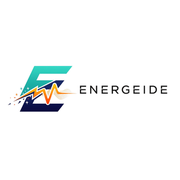
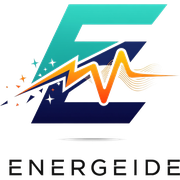
auto-commit for 6329f77a-e319-442f-a806-9cf65383b7c2

diff --git a/frontend/public/index.html b/frontend/public/index.html
@@ -19,10 +19,10 @@
         <link rel="canonical" href="https://energeide.it/" />
 
         <!-- Favicons -->
-        <link rel="icon" href="%PUBLIC_URL%/favicon.ico" sizes="any" />
-        <link rel="icon" type="image/png" sizes="192x192" href="%PUBLIC_URL%/logo192.png" />
-        <link rel="icon" type="image/png" sizes="512x512" href="%PUBLIC_URL%/logo512.png" />
-        <link rel="apple-touch-icon" sizes="180x180" href="%PUBLIC_URL%/apple-touch-icon.png" />
+        <link rel="icon" href="%PUBLIC_URL%/favicon.ico?v=2" sizes="any" />
+        <link rel="icon" type="image/png" sizes="192x192" href="%PUBLIC_URL%/logo192.png?v=2" />
+        <link rel="icon" type="image/png" sizes="512x512" href="%PUBLIC_URL%/logo512.png?v=2" />
+        <link rel="apple-touch-icon" sizes="180x180" href="%PUBLIC_URL%/apple-touch-icon.png?v=2" />
         <link rel="manifest" href="%PUBLIC_URL%/manifest.json" />
 
         <!-- Open Graph / Facebook -->

diff --git a/frontend/src/components/Footer.jsx b/frontend/src/components/Footer.jsx
@@ -139,12 +139,12 @@ const Footer = () => {
           </div>
         </div>
 
-        <div className="mt-12 pt-6 border-t border-white/10 flex flex-col sm:flex-row items-center justify-between gap-3 text-xs text-gray-400">
+        <div className="mt-12 pt-6 border-t border-white/10 flex flex-col items-center gap-3 text-xs text-gray-400 text-center">
           <p>
             © {new Date().getFullYear()} ENERGEIDE S.r.l. Tutti i diritti
             riservati. {SITE.vat}
           </p>
-          <div className="flex gap-5">
+          <div className="flex flex-wrap justify-center gap-5">
             <Link to="/privacy-policy" className="hover:text-[#F4C542]">
               Privacy Policy
             </Link>

diff --git a/frontend/src/pages/PrivacyPolicy.jsx b/frontend/src/pages/PrivacyPolicy.jsx
@@ -74,10 +74,10 @@ const SECTIONS = [
         dati, opporsi al trattamento, richiedere la limitazione e la
         portabilità dei dati. Per esercitare questi diritti:{" "}
         <a
-          href="mailto:[email redacted]"
+          href="mailto:[email redacted]"
           className="text-[#0FB36B] font-semibold hover:underline"
         >
-          [email redacted]
+          [email redacted]
         </a>
       </p>
     ),